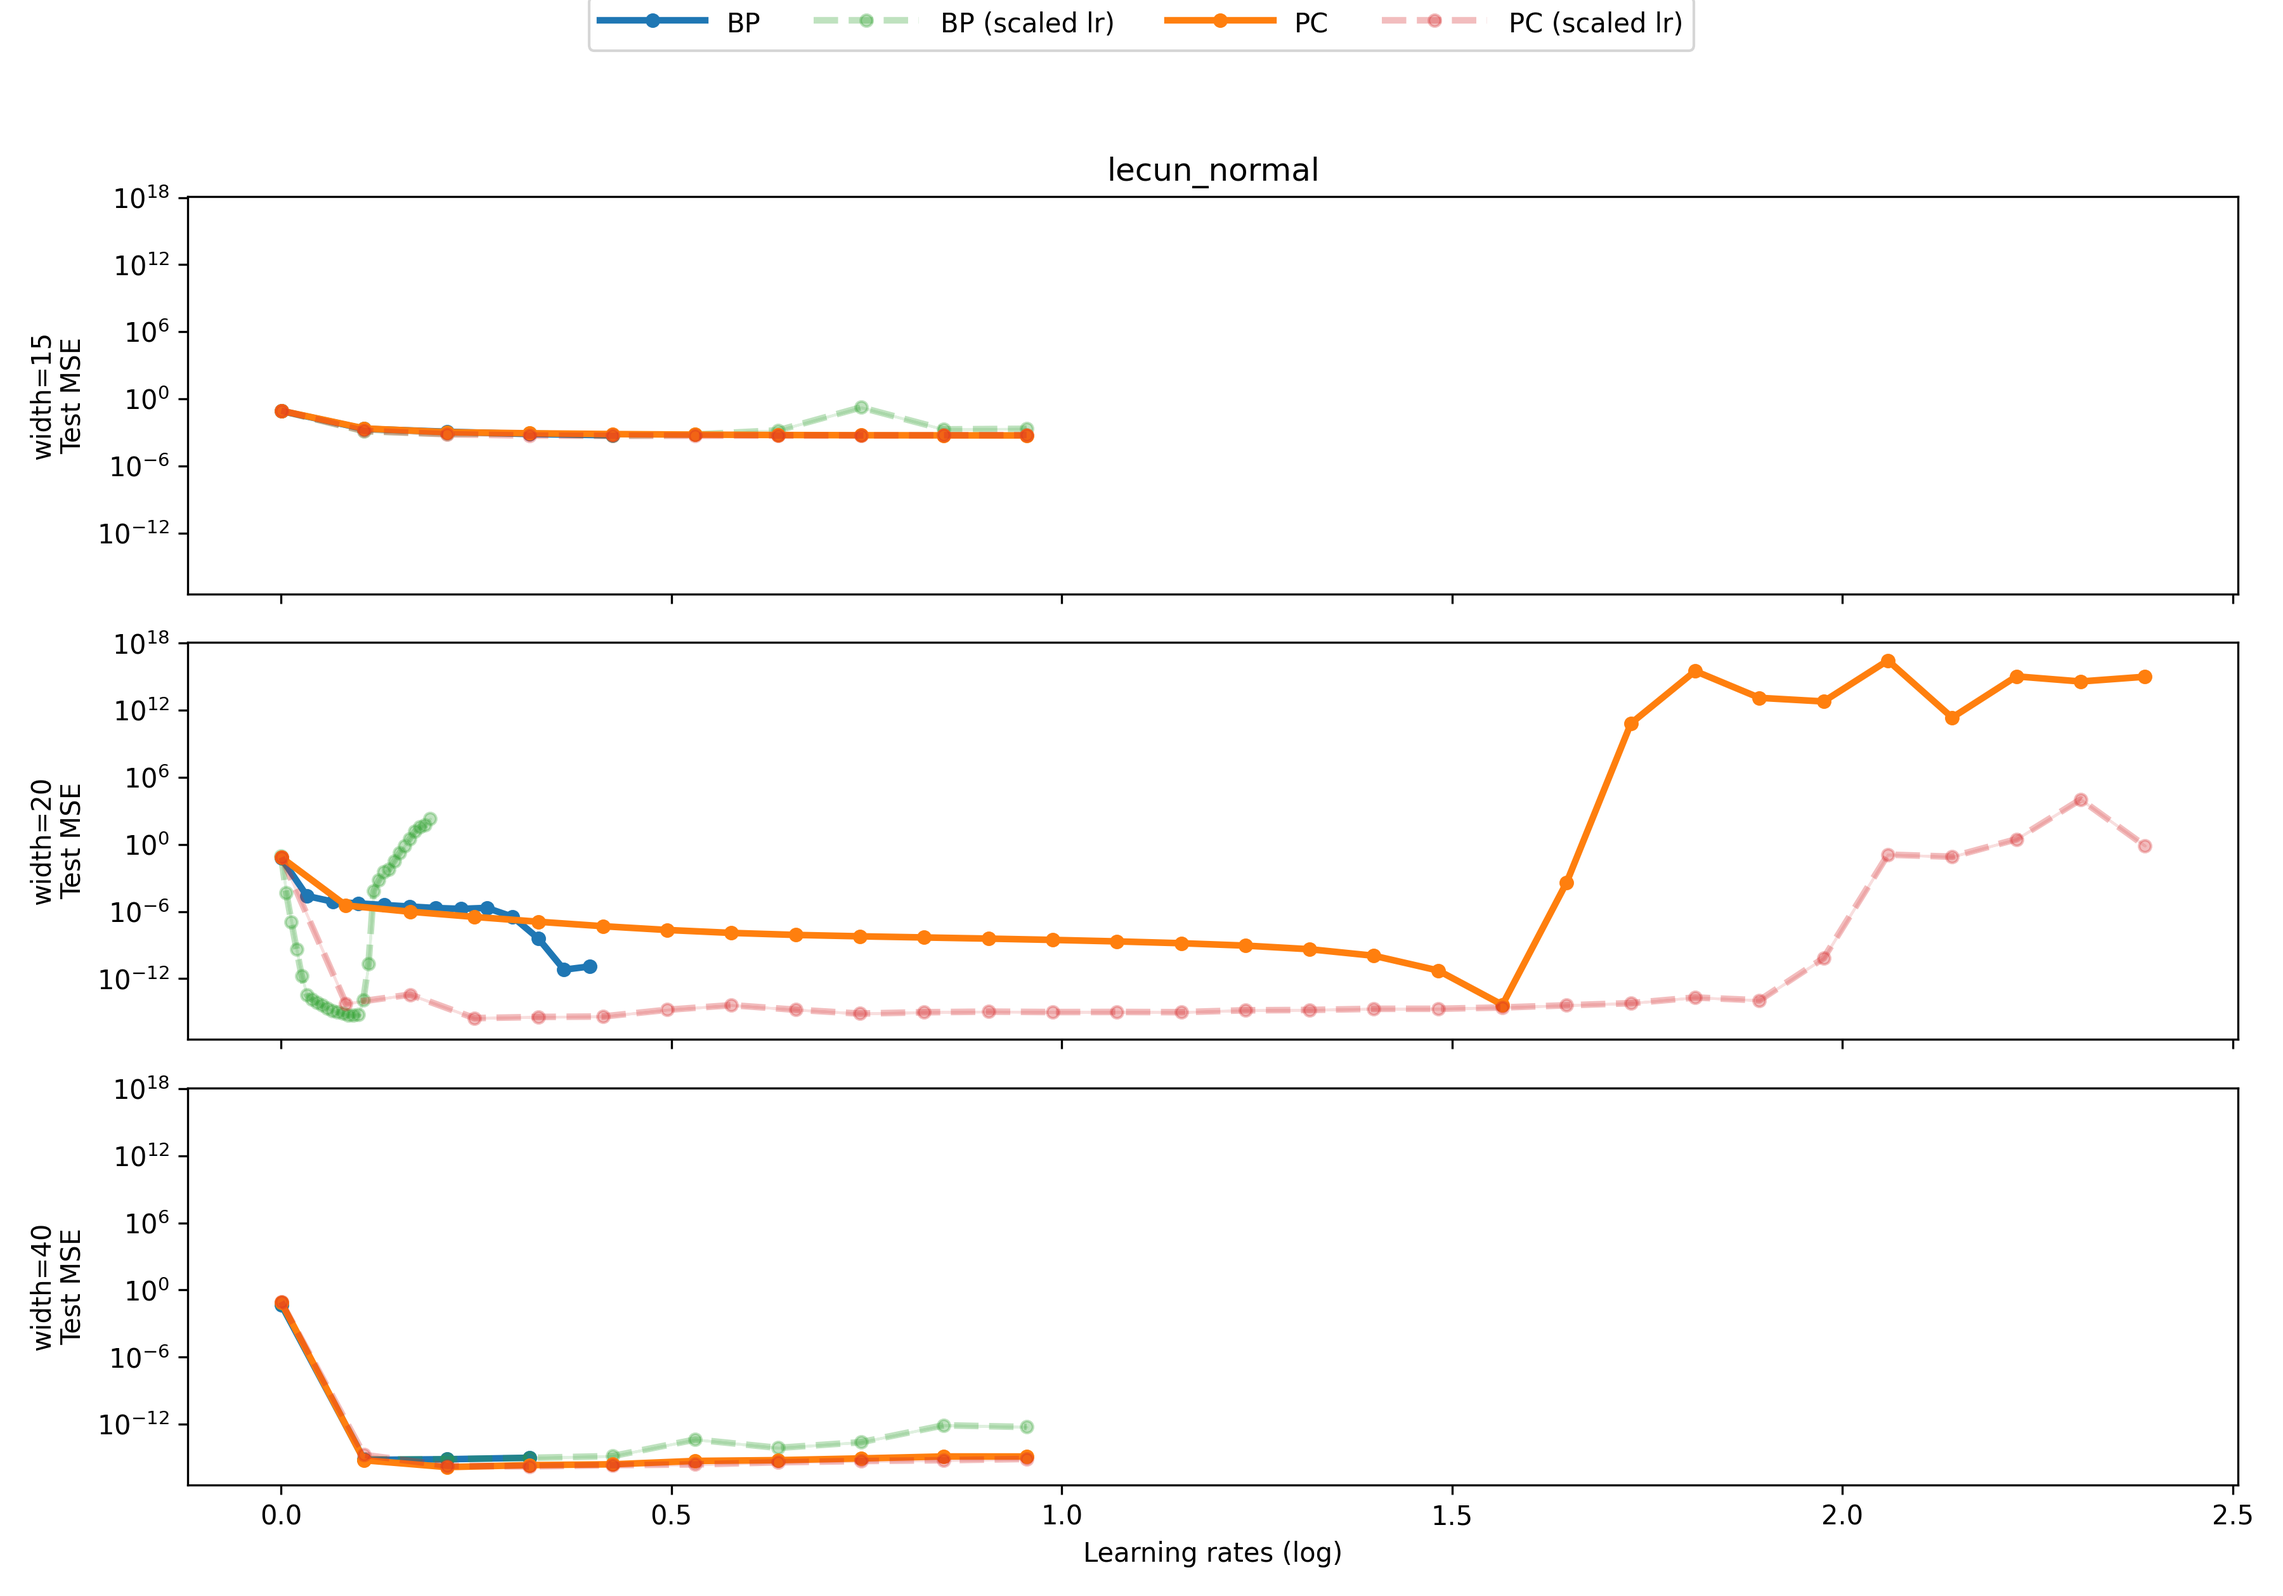
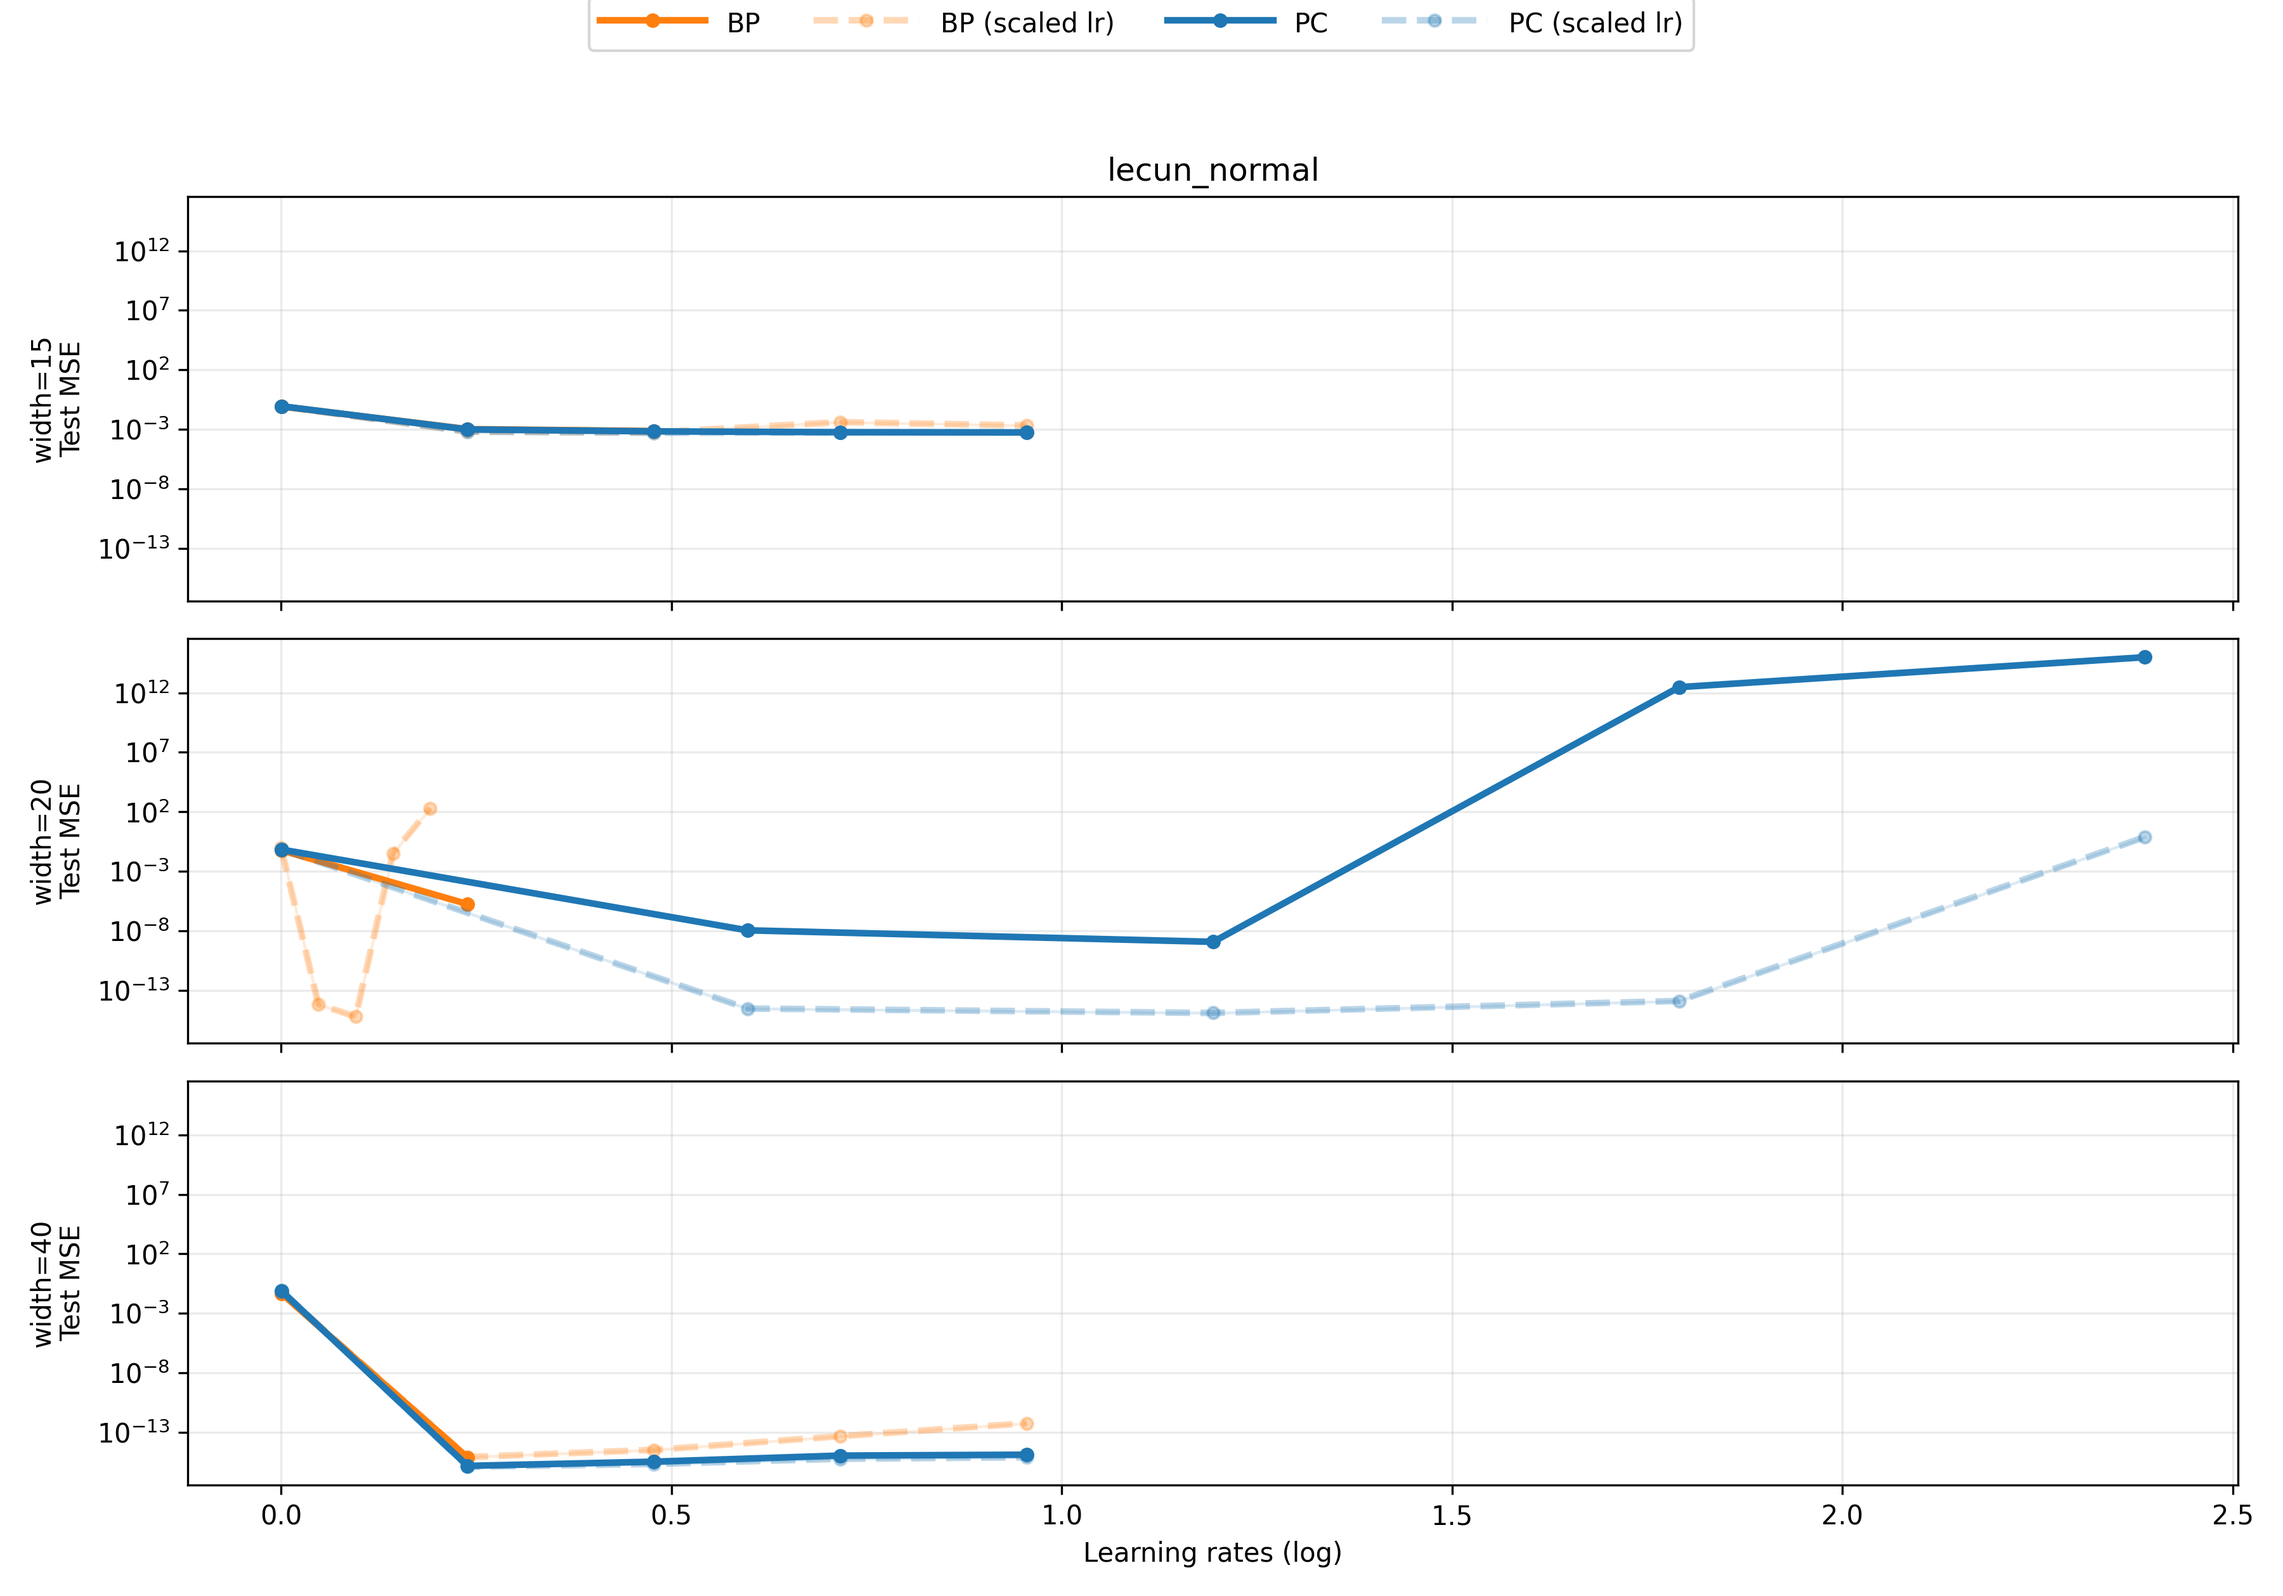
.

diff --git a/Figure2/figure2.py b/Figure2/figure2.py
@@ -531,7 +531,7 @@ for seed in seeds:
             eval_every      = 10#00
 
             # LR grid (base grid; we optionally amplify for some models)
-            lrs = np.linspace(10**(-3.5), 10**(-0.02), 10) #(-2.9, -0.04, 15)  # ~ 1e-4 ... 1.6e-1
+            lrs = np.linspace(10**(-3.5), 10**(-0.02), 5) #(-2.9, -0.04, 15)  # ~ 1e-4 ... 1.6e-1
            
 
             # for 1 hidden layer it was 1,1,1
@@ -546,7 +546,7 @@ for seed in seeds:
             eval_every      = 40#00
 
             # LR grid (base grid; we optionally amplify for some models)
-            lrs = np.linspace(10**(-3.5), 10**(-0.02), 30) #(-2.9, -0.04, 15)  # ~ 1e-4 ... 1.6e-1
+            lrs = np.linspace(10**(-3.5), 10**(-0.02), 5) #(-2.9, -0.04, 15)  # ~ 1e-4 ... 1.6e-1
 
             # Optional LR scaling knobs (keep if you want)
             amplify_lr_BP_scaled = .2#2       # for "(scaled lr)" variants
@@ -559,7 +559,7 @@ for seed in seeds:
             eval_every      = 40#00
 
             # LR grid (base grid; we optionally amplify for some models)
-            lrs = np.linspace(10**(-3.5), 10**(-0.02), 10) #(-2.9, -0.04, 15)  # ~ 1e-4 ... 1.6e-1
+            lrs = np.linspace(10**(-3.5), 10**(-0.02), 5) #(-2.9, -0.04, 15)  # ~ 1e-4 ... 1.6e-1
 
             # Optional LR scaling knobs (keep if you want)
             amplify_lr_BP_scaled = 1#2       # for "(scaled lr)" variants
@@ -672,10 +672,10 @@ widths_order = sorted(agg_cur["width"].unique())
 
 # --- style map: color by family, linestyle by scaled/unscaled ---
 style = {
-    "BP":              dict(color="tab:blue",   linestyle="-",  marker="o"),
-    "BP (scaled lr)":  dict(color="tab:green",   linestyle="--", marker="o", alpha = 0.3),
-    "PC":              dict(color="tab:orange", linestyle="-",  marker="o"),
-    "PC (scaled lr)":  dict(color="tab:red", linestyle="--", marker="o", alpha = 0.3),
+    "BP":              dict(color="tab:orange",   linestyle="-"),
+    "BP (scaled lr)":  dict(color="tab:orange",   linestyle="--", alpha = 0.3),
+    "PC":              dict(color="tab:blue", linestyle="-"),
+    "PC (scaled lr)":  dict(color="tab:blue", linestyle="--", alpha = 0.3),
 }
 
 # --- make figure: rows = widths, cols = inits ---
@@ -758,6 +758,12 @@ fig, axes = plt.subplots(
     figsize=(12, 2.8 * len(widths_order)),
     sharex=True, sharey=True
 )
+style = {
+    "BP":              dict(color="tab:orange",   linestyle="-",  marker="o"),
+    "BP (scaled lr)":  dict(color="tab:orange",   linestyle="--", marker="o", alpha = 0.3),
+    "PC":              dict(color="tab:blue", linestyle="-",  marker="o"),
+    "PC (scaled lr)":  dict(color="tab:blue", linestyle="--", marker="o", alpha = 0.3),
+}
 
 # Handle edge cases where rows/cols = 1
 if len(widths_order) == 1 and len(inits_order) == 1:
@@ -805,7 +811,7 @@ for r, width in enumerate(widths_order):
         #ax.set_ylim(1e-16, 1e-1)
       #  ax.set_xlim(-1, max_steps_sweep)
        # ax.set_ylim(1e-4, 1e-1)
-      #  ax.grid(True, alpha=0.25)
+        ax.grid(True, alpha=0.25)
 
         # Titles / labels
         if r == 0:

diff --git a/Figure4/figure4.py b/Figure4/figure4.py
@@ -672,10 +672,10 @@ widths_order = sorted(agg_cur["width"].unique())
 
 # --- style map: color by family, linestyle by scaled/unscaled ---
 style = {
-    "BP":              dict(color="tab:blue",   linestyle="-",  marker="o"),
-    "BP (scaled lr)":  dict(color="tab:green",   linestyle="--", marker="o", alpha = 0.3),
-    "PC":              dict(color="tab:orange", linestyle="-",  marker="o"),
-    "PC (scaled lr)":  dict(color="tab:red", linestyle="--", marker="o", alpha = 0.3),
+    "BP":              dict(color="tab:orange",   linestyle="-"),
+    "BP (scaled lr)":  dict(color="tab:orange",   linestyle="--", alpha = 0.3),
+    "PC":              dict(color="tab:blue", linestyle="-"),
+    "PC (scaled lr)":  dict(color="tab:blue", linestyle="--", alpha = 0.3),
 }
 
 # --- make figure: rows = widths, cols = inits ---
@@ -758,6 +758,13 @@ fig, axes = plt.subplots(
     figsize=(12, 2.8 * len(widths_order)),
     sharex=True, sharey=True
 )
+
+style = {
+    "BP":              dict(color="tab:orange",   linestyle="-",  marker="o"),
+    "BP (scaled lr)":  dict(color="tab:orange",   linestyle="--", marker="o", alpha = 0.3),
+    "PC":              dict(color="tab:blue", linestyle="-",  marker="o"),
+    "PC (scaled lr)":  dict(color="tab:blue", linestyle="--", marker="o", alpha = 0.3),
+}
 
 # Handle edge cases where rows/cols = 1
 if len(widths_order) == 1 and len(inits_order) == 1:
